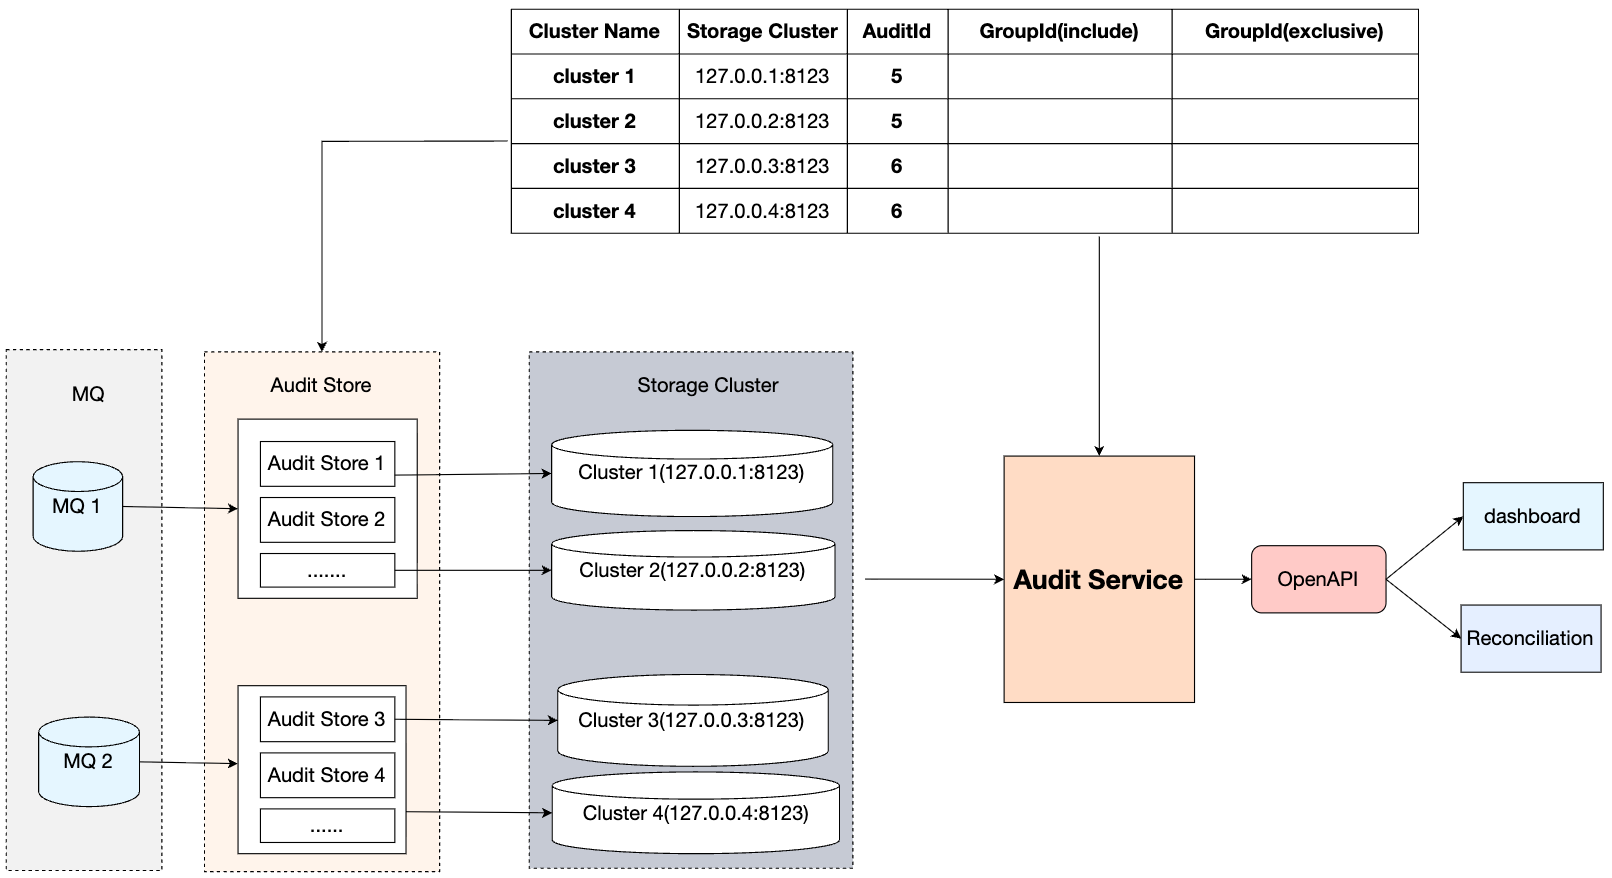
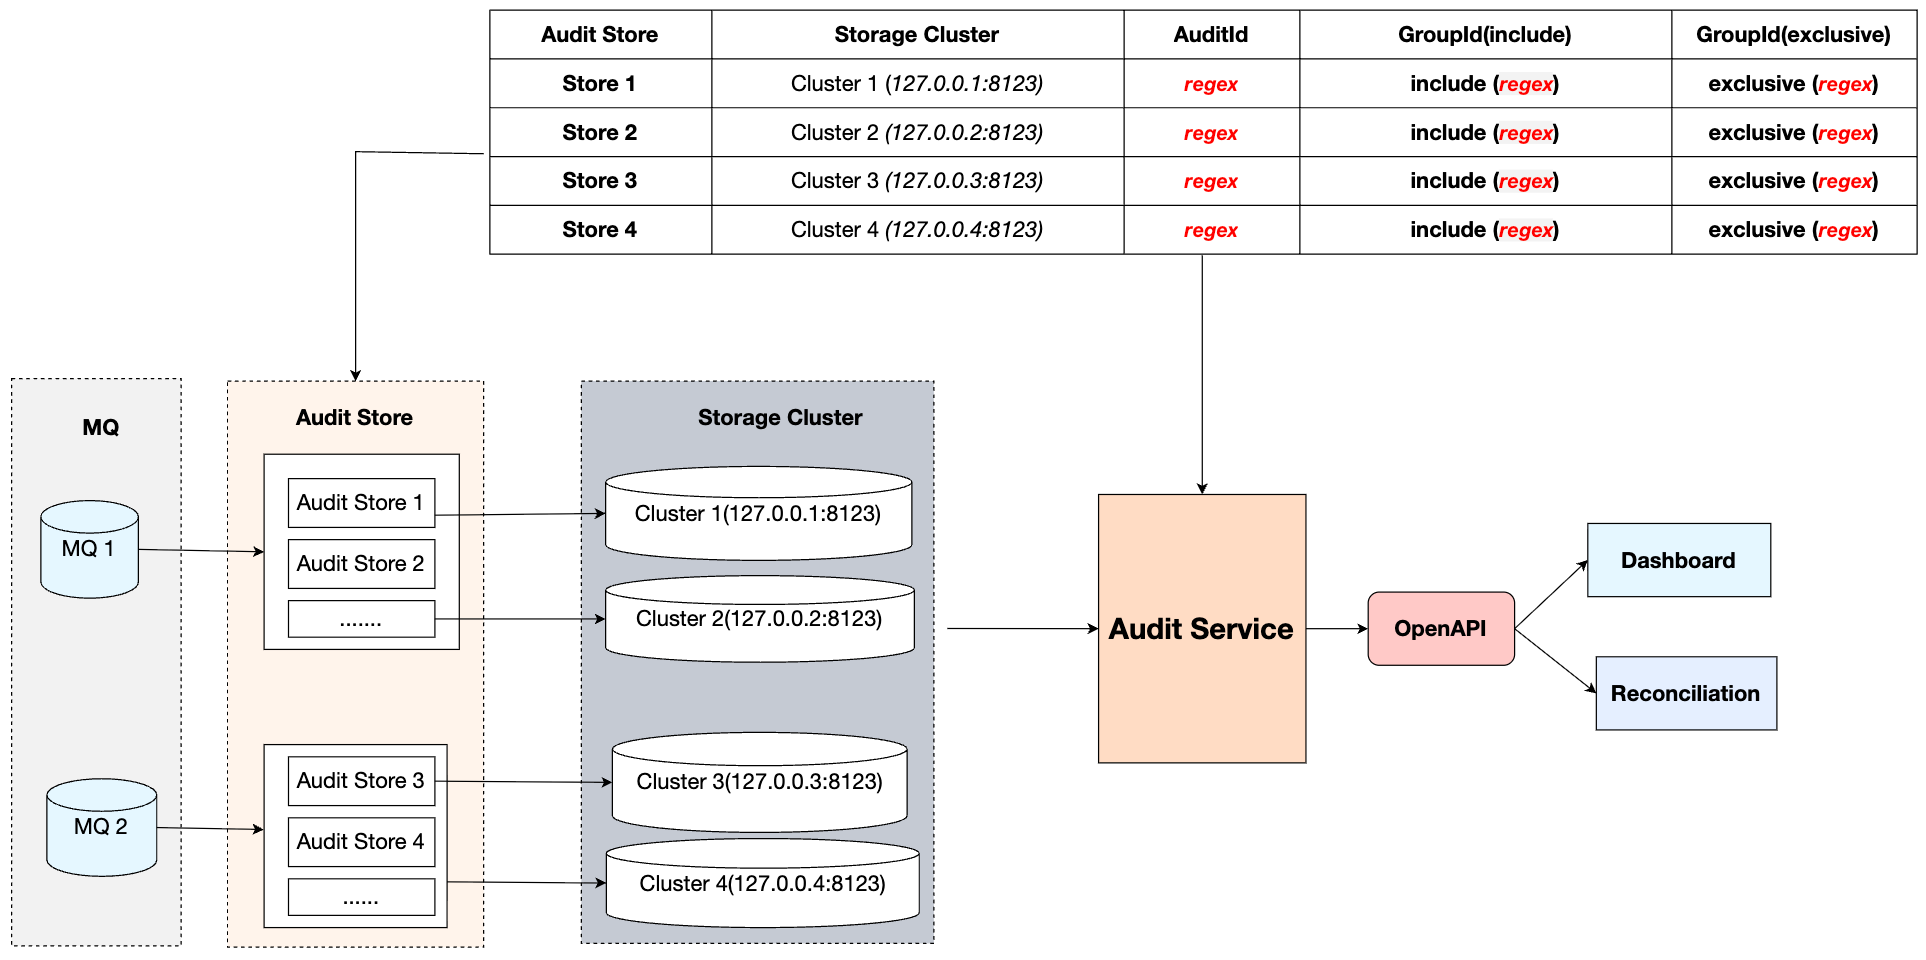
[INLONG-1165][Release] Optimize blog content

diff --git a/blog/2025-11-13-release-2.3.0.md b/blog/2025-11-13-release-2.3.0.md
@@ -6,7 +6,7 @@ author_image_url: https://avatars.githubusercontent.com/doleyzi
 tags: [Apache InLong, Version]
 ---
 
-Apache InLong (应龙) recently released version 2.3.0, which resolved 59 issues, including 3 major features and 50+ optimizations. Mainly completed the support for Transform capabilities in SortCkafka and others, enabled horizontal scaling for Audit Store, and optimized the SDK. This version also optimizes the operational and maintenance experience for Apache InLong. Additionally, numerous other features were implemented in Apache InLong 2.3.0.
+Apache InLong (应龙) recently released version 2.3.0, which resolved 59 issues, including 3 major features and 50+ optimizations. Mainly completed the support for Transform capabilities in Sort Standalone module for Kafka/HTTP/CLS/ES subscription types, enabled horizontal scaling for Audit Store, and optimized the Transform SDK and DataProxy SDK. This version also optimizes the operational and maintenance experience for Apache InLong. Additionally, numerous other features were implemented in Apache InLong 2.3.0.
 <!--truncate-->
 
 ## About Apache InLong
@@ -19,43 +19,43 @@ The core positioning of InLong revolves around three keywords: "one-stop," "all-
 
 Apache InLong (应龙) recently released version 2.3.0, which resolved 59 issues, including 3 major features and 50+ optimizations. Key enhancements include:
 
-- **Sort**: SortCkafka, SortHttp, SortStandalone, SortCls, and SortEs now support Transform functionality
-- **Audit**: Audit Store supports horizontal scaling
-- **SDK**: Optimizations of Transform SDK and DataProxy SDK
+- **Sort**: Transform capabilities supported in Sort Standalone module for Kafka/HTTP/CLS/ES subscription types
+- **Audit**: Audit Store supports horizontal scaling, improving system scalability and stability
+- **SDK**: Performance and functional optimizations for Transform SDK and DataProxy SDK
 
 This version also optimizes the operational and maintenance experience for Apache InLong. Other significant features are detailed below.
 
 ### Dashboard Module
-- Added grouping and stream switching features to the audit page
-- Fixed the issue of multiple API calls triggered by queries on the audit page
+- Added grouping and stream switching features to the audit page, improving usability
+- Fixed the issue of multiple API calls triggered by queries on the audit page, optimizing performance
 
 ### Manager Module
-- Added comprehensive audit alarm rule management API
+- Added comprehensive audit alarm rule management API, supporting more granular alarm policy configuration
 - Supported parsing transformation configurations into transformation SQL
-- Enabled configuration support for source fields in receivers
+- Enabled configuration support for source fields in receivers, enhancing flexibility
 
 ### Agent Module
-- The agent now supports parallel creation of sender connections to the DataProxy, improving connection creation efficiency
+- The agent now supports parallel creation of sender connections to the DataProxy, significantly improving connection initialization efficiency
 - Added loading functionality for the agent_ext.properties configuration file to prevent personalized configurations from being lost when agent.properties is overwritten during upgrades
 
 ### Sort Module
-- SortCkafka, SortHttp, SortStandalone, SortCls, and SortEs now support transformation functionality
-- Deserialization process now supports returning the byte size of data in a single row
-- Upgraded the Pulsar SDK to version 4.0.3
+- Sort Standalone module supports Transform functionality for Kafka/HTTP/CLS/ES subscription types
+- Deserialization process now supports returning the byte size of data in a single row, improving data processing visualization and accuracy
+- Upgraded the Pulsar SDK to version 4.0.3, enhancing stability and functional compatibility
 
 ### SDK Module
 - TransformSDK now supports array index access; the WHERE clause supports the LIKE operator; the str_to_json function can convert KV format data to JSON format
-- SortSDK defaults to retrieving GroupId and StreamId from unified metadata if these cannot be obtained from the InLongMsgV0 protocol
-- Optimized Golang SDK to fix potential data race issues
+- SortSDK defaults to retrieving GroupId and StreamId from unified metadata if these cannot be obtained from the InLongMsgV0 protocol, enhancing compatibility
+- Optimized Golang SDK to fix potential data race issues, improving concurrency safety
 
 ### Audit Module
-- Audit service now supports enabling and disabling custom caching
-- Supports audit reconciliation by data stream group dimension
-- Added end-to-end reconciliation alarm capabilities
-- Added horizontal scaling for Audit Store
+- Audit service now supports enabling and disabling custom caching, meeting performance requirements for different scenarios
+- Supports audit reconciliation by data stream group dimension, improving verification accuracy
+- Added end-to-end reconciliation alarm capabilities, enabling timely detection of abnormal situations
+- Added horizontal scaling for Audit Store, enhancing system load capacity
 
 ### TubeMQ Module
-- Fixed TubeMQ image build failure
+- Fixed TubeMQ image build failure, ensuring stable image generation
 
 ## Key Features of Version 2.3.0
 
@@ -68,11 +68,17 @@ This feature enables querying audit data based on data stream groups to achieve 
 ### Audit Store supports horizontal scaling
 When the scale of audit data reaches hundreds of billions, a single Audit Store may face performance pressure. This version introduces horizontal scaling capabilities to effectively enhance the system's capacity
 ![2.3.0-audit](img/2.3.0/2.3.0-audit.png)
-- Build a routing topology between Audit Store clusters and AuditId, GroupId, StreamId.
-- Audit Store writes audit data to the corresponding storage clusters (ClickHouse/StarRocks/MySQL) based on the routing topology.
+- Build a routing topology between Audit Store clusters and AuditId, GroupId, StreamId, supporting flexible routing rule configuration through regular expressions.
+- Each Audit Store writes audit data to the corresponding storage clusters (ClickHouse/StarRocks/MySQL) based on the routing topology.
 - Audit Service queries the corresponding audit data based on the routing topology.
 
-*Contributed by [@doleyzi](https://github.com/doleyzi) via [INLONG-11894](https://github.com/apache/inlong/pull/11895)*.
+*Contributed by [@doleyzi](https://github.com/doleyzi) via [INLONG-12009](https://github.com/apache/inlong/pull/12013)*.
+
+### Sort supports dynamic Transform capabilities
+InLong Transform enhances InLong's Sort distribution capabilities, adapting to complex and diverse data analysis scenarios on the distribution side, improving data quality and data collaboration, simplifying pre-processing operations before data analysis, and focusing on the business value of data. Supports multiple data format parsing (CSV, KV, Protobuf, Json/Bson, Avro, Yaml, XML, Parquet), supports 180+ functions and arithmetic/logical operators. Transform logic supports dynamic changes during Sort runtime without requiring flow interruption or restart, supports seamless migration between Sort tasks, enabling elastic scaling or resource scheduling.
+![2.3.0-transform](img/2.3.0/2.3.0-transform.png)
+
+*Contributed by [@luchunliang](https://github.com/luchunliang) via [INLONG-11958](https://github.com/apache/inlong/pull/11958), [INLONG-11937](https://github.com/apache/inlong/pull/11937), [INLONG-11902](https://github.com/apache/inlong/pull/11902), [INLONG-11888](https://github.com/apache/inlong/pull/11888)*.
 
 ## Future Plans
 In version 2.3.0, we have enriched and improved our operational capabilities. Welcome everyone to use it. If you have more scenarios and requirements, or encounter any problems during use, please feel free to raise issues and PR. In future versions, the InLong community will continue to:
